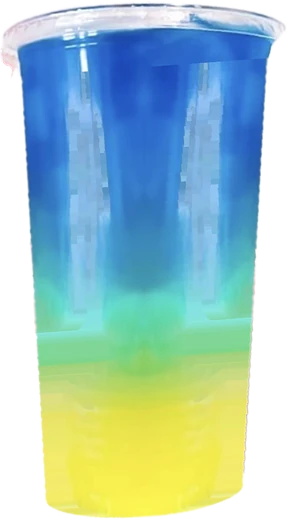
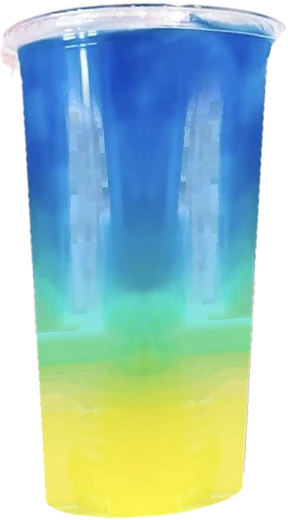
Crossfade the rebuilt cups into their own lid rows
The matte kept the clear lid and the profile painted the body, and the handover
between them was a hard row: on the rainbow cup the two blues differed by a shade
and left a visible step across the drink. Fade one into the other over 90 rows.

diff --git a/index.html b/index.html
@@ -14,7 +14,7 @@
 <link rel="preconnect" href="https://fonts.gstatic.com" crossorigin>
 <link href="https://fonts.googleapis.com/css2?family=Anton&family=Archivo+Black&family=Caveat:wght@600;700&family=Manrope:wght@400;500;600;700&family=Space+Mono:wght@400;700&display=swap" rel="stylesheet">
 <link rel="preload" as="image" href="img/01-cup.webp">
-<link rel="stylesheet" href="css/site.css?v=202609151819">
+<link rel="stylesheet" href="css/site.css?v=202609151826">
 </head>
 <body>
 
@@ -287,10 +287,10 @@
   </div>
 </footer>
 
-<script src="js/vendor/gsap.min.js?v=202609151819"></script>
-<script src="js/vendor/ScrollTrigger.min.js?v=202609151819"></script>
-<script src="js/vendor/lenis.min.js?v=202609151819"></script>
-<script src="js/manifest.js?v=202609151819"></script>
-<script src="js/loadout.js?v=202609151819"></script>
+<script src="js/vendor/gsap.min.js?v=202609151826"></script>
+<script src="js/vendor/ScrollTrigger.min.js?v=202609151826"></script>
+<script src="js/vendor/lenis.min.js?v=202609151826"></script>
+<script src="js/manifest.js?v=202609151826"></script>
+<script src="js/loadout.js?v=202609151826"></script>
 </body>
 </html>
